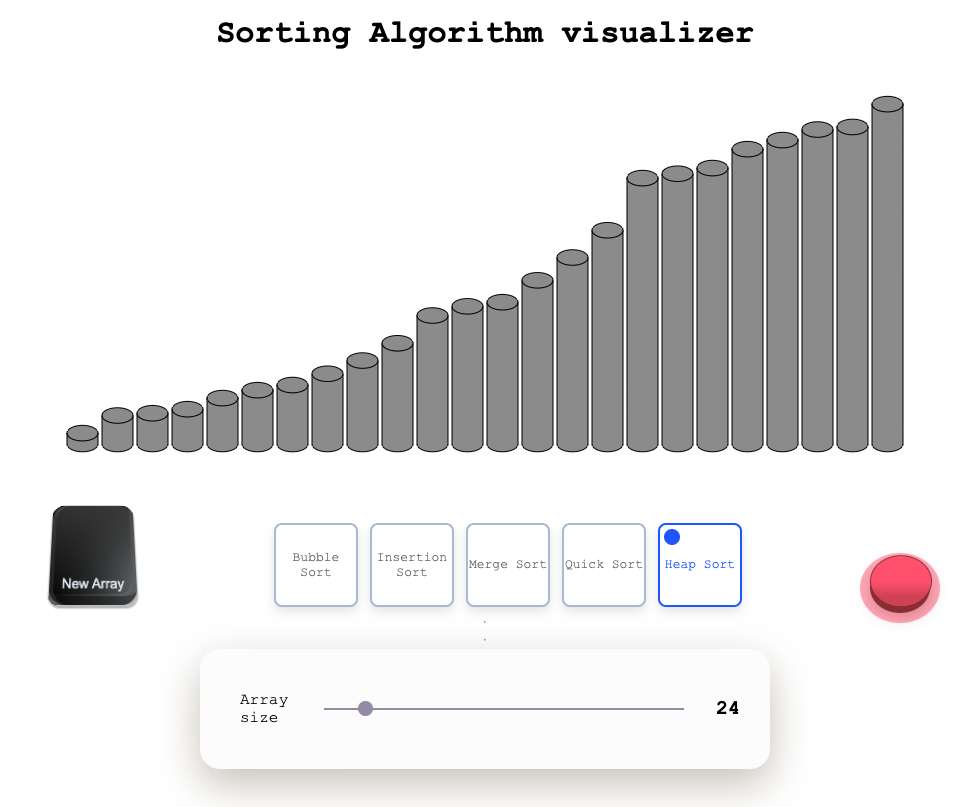
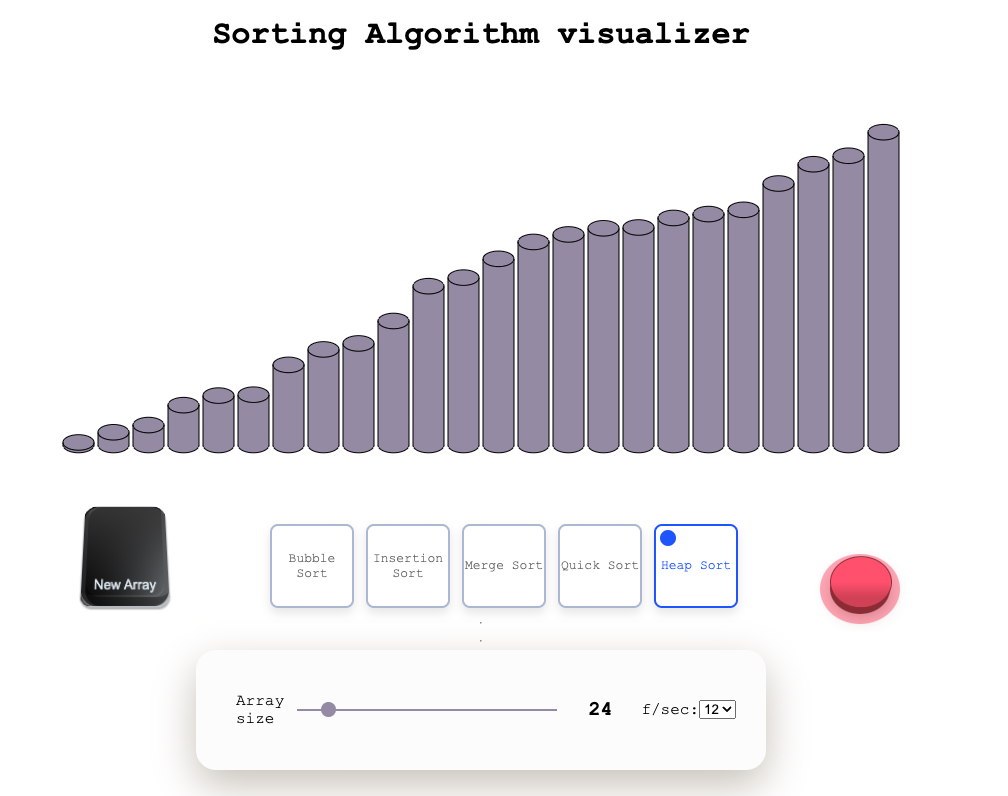
frame count manual adj & color

diff --git a/main.js b/main.js
@@ -1,8 +1,10 @@
 //By Otuma.
+
 mainCanvas.width = 900;
 mainCanvas.height = 400;
 const selectedBtn = document.getElementById('algorithms');
 let numberOfColumsValue = document.getElementById('rangeNumber').value;
+let framesPerSecondSelected = document.getElementById('seconds-selected');
 
 let numberOfColums = numberOfColumsValue;
 let arr = [];
@@ -15,6 +17,7 @@ const ctx = mainCanvas.getContext('2d');
 let operations = [];
 let chosenAlgorithm = '';
 let isOkayToRun = false;
+let framesPerSecond;
 
 
 // Create array of random numbers between 0 and 1.
@@ -78,6 +81,12 @@ selectedBtn.addEventListener('click', (e)=>{
 		chosenAlgorithm = e.target.id;
 		isOkayToRun = true;
 	}
+});
+
+
+// Change the animation speed.
+framesPerSecondSelected.addEventListener('change', (e)=>{
+	framesPerSecond = Number(e.srcElement.value);
 })
 
 
@@ -95,7 +104,7 @@ function runAlgorithm(){
 //Linear interpolation.
 function linearInterpolate(a, b, t){
 	return a + (b - a) * t;
-}
+};
 
 
 function animate(){
@@ -111,8 +120,8 @@ function animate(){
 		const action = operations.shift();
 		const [i,j] = action.index;
 		if( action.swap ){
-			cols[i].moveTo( cols[j] );
-			cols[j].moveTo( cols[i] );
+			framesPerSecond ? cols[i].moveTo( cols[j], framesPerSecond) : cols[i].moveTo( cols[j] );
+			framesPerSecond ? cols[j].moveTo( cols[i], framesPerSecond) : cols[j].moveTo( cols[i] );
 			[ cols[i], cols[j] ] = [ cols[j], cols[i] ]; //Swap
 		}
 	}
@@ -122,7 +131,7 @@ function animate(){
 	}else{
 		isOkayToRun = true;
 	}
-}
+};
 
 
 /*********** Sorting algorithms *************/

diff --git a/column.js b/column.js
@@ -6,44 +6,46 @@ class Column{
 		this.width = width;
 		this.height = height;
 		this.queue = [];
+		this.color = {
+			r:159,
+			g:149,
+			b:173
+		}
 	}
+	// 153,141,169.deepPurple
+	//159,149,173.light
 
 	moveTo(location, framecount=5 ){
 		for(let i=0; i<=framecount; i++){
 			const t = i/framecount;
-			// const u = 
+			const u =  Math.sin(t*Math.PI);
 			this.queue.push({
 				x:linearInterpolate(this.x, location.x, t),
-				y:linearInterpolate(this.y, location.y, t)
+				y:linearInterpolate(this.y, location.y, t),
+				r:linearInterpolate(159, 90, u),
+				g:linearInterpolate(149, 0, u),
+				b:linearInterpolate(173, 0, u)
 			})
 		}
 	}
 
-	// jump(framecount=10){
-	// 	for(let i=1; i< framecount; i++){
-	// 		const t = i/framecount;
-	// 		const u = Math.sin(t*Math.PI);
-	// 		this.queue.push({
-	// 			x:this.x,
-	// 			y:this.y-u*this.width
-	// 		})
-	// 	}
-	// }
 
 	draw(ctx){
 		let processing = false;
 		if( this.queue.length > 0 ){
-			const {x,y} = this.queue.shift();
+			const {x,y,r,g,b} = this.queue.shift();
 			this.x = x;
 			this.y = y;
+			this.color = {r,g,b}
 			processing = true;
 		}
 		const left = this.x - this.width/2;
 		const top = this.y - this.height;
-		const right = this.x + this.width/2
+		const right = this.x + this.width/2;
+		const {r,g,b} = this.color;
 
 		ctx.beginPath()
-		ctx.fillStyle = "rgb(150,150,150"; //color
+		ctx.fillStyle = `rgb(${r},${g},${b})`;
 
 		ctx.moveTo(left, top);
 		ctx.lineTo(left, this.y);

diff --git a/index.html b/index.html
@@ -62,6 +62,14 @@
 	<div class="slider">
 		Array size
  		<input id="rangeNumber" type="range" min="5" max="200" value="15" oninput="addColumnsToArray()"><p id="rangeValue">15</p>
+ 		&nbsp;&nbsp;&nbsp;
+ 		<label>f/sec:</label>
+ 		<select id="seconds-selected">
+ 			<option value="5">12</option>
+ 			<option value="20">3</option>
+ 			<option value="60">1</option>
+ 			<option value="1">60</option>
+ 		</select>
   	</div> 
 
 	<script type="text/javascript" src="column.js"></script>
